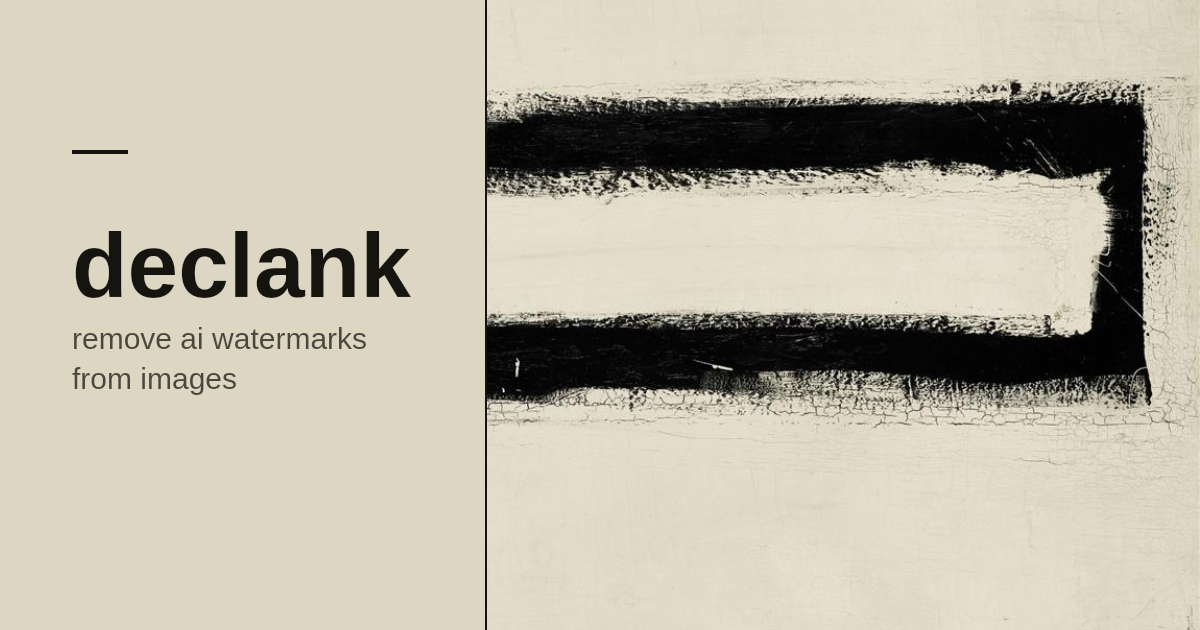
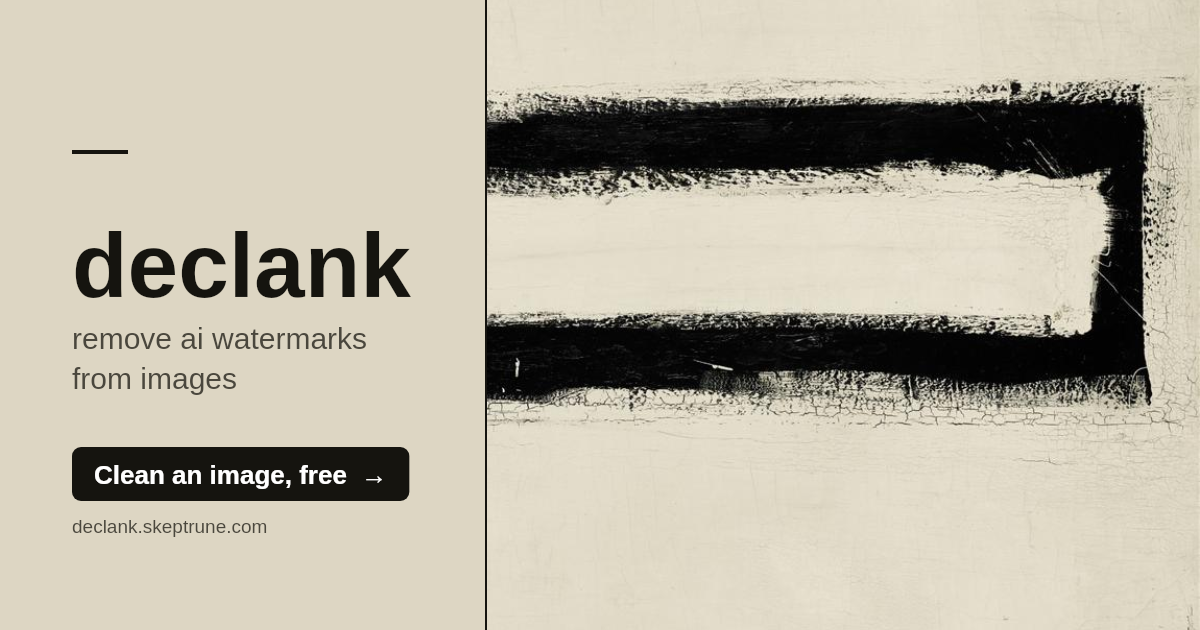
SEO/social: longer title + description, CTA in OG image

Changed region(s): [[0.0617, 0.6937, 0.3392, 0.8444]]

diff --git a/web/index.html b/web/index.html
@@ -5,22 +5,32 @@
     <meta name="viewport" content="width=device-width, initial-scale=1" />
     <link rel="icon" type="image/png" href="/favicon.png" />
     <link rel="apple-touch-icon" href="/apple-touch-icon.png" />
-    <title>Declank - image cleanup</title>
-    <meta name="description" content="Remove AI watermarks from images." />
+    <title>Declank: Remove AI Watermarks From Images Online, Free</title>
+    <meta
+      name="description"
+      content="Declank removes AI generator watermarks (Gemini, Doubao, Jimeng, Samsung), invisible signals, and metadata from your images. No blur, no sign-up, free."
+    />
 
     <!-- Open Graph -->
     <meta property="og:type" content="website" />
     <meta property="og:url" content="https://declank.skeptrune.com/" />
-    <meta property="og:title" content="declank" />
-    <meta property="og:description" content="remove ai watermarks from images" />
+    <meta property="og:title" content="Declank: Remove AI Watermarks From Images Online, Free" />
+    <meta
+      property="og:description"
+      content="Declank removes AI generator watermarks (Gemini, Doubao, Jimeng, Samsung), invisible signals, and metadata from your images. No blur, no sign-up, free."
+    />
     <meta property="og:image" content="https://declank.skeptrune.com/og.png" />
+    <meta property="og:image:alt" content="Declank: remove AI watermarks from images." />
     <meta property="og:image:width" content="1200" />
     <meta property="og:image:height" content="630" />
 
     <!-- Twitter -->
     <meta name="twitter:card" content="summary_large_image" />
-    <meta name="twitter:title" content="declank" />
-    <meta name="twitter:description" content="remove ai watermarks from images" />
+    <meta name="twitter:title" content="Declank: Remove AI Watermarks From Images Online, Free" />
+    <meta
+      name="twitter:description"
+      content="Declank removes AI generator watermarks (Gemini, Doubao, Jimeng, Samsung), invisible signals, and metadata from your images. No blur, no sign-up, free."
+    />
     <meta name="twitter:image" content="https://declank.skeptrune.com/og.png" />
   </head>
   <body>

diff --git a/web/src/components/Stage.tsx b/web/src/components/Stage.tsx
@@ -17,7 +17,6 @@ interface Props {
   mode: Mode;
   elapsed: number;
   onCancel: () => void;
-  caption: string;
 }
 
 function clock(seconds: number): string {
